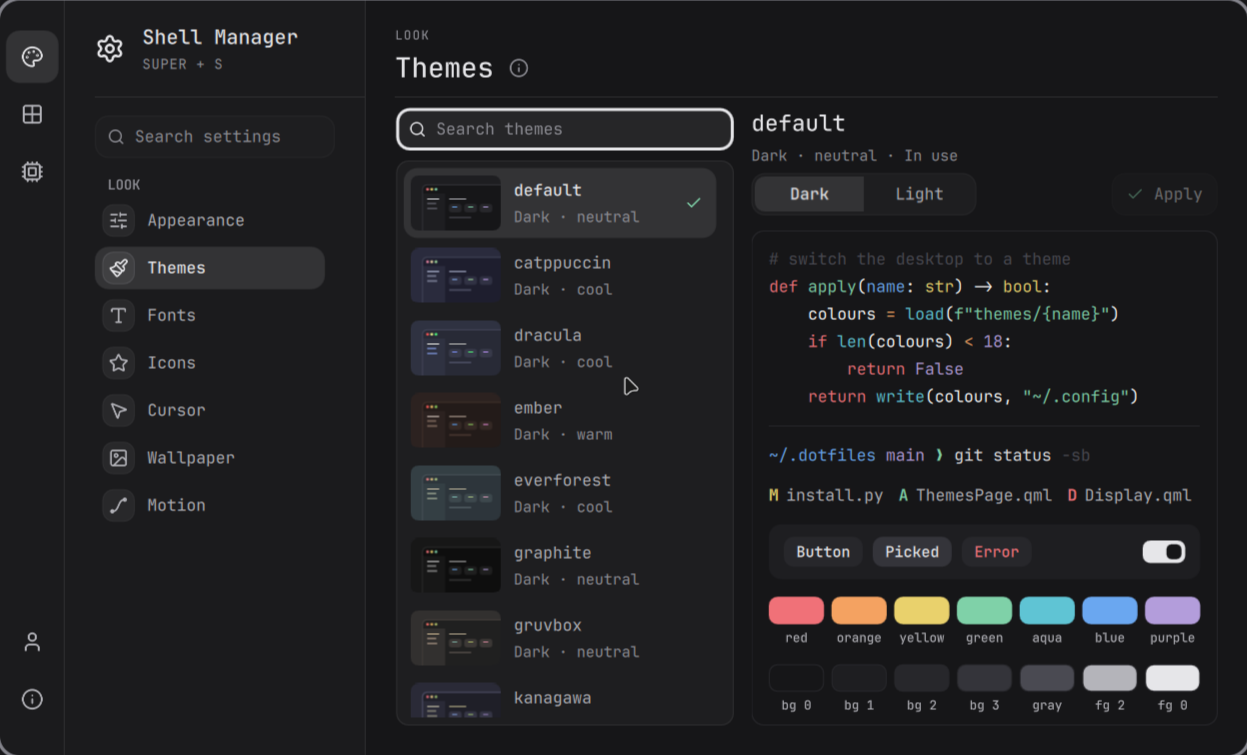
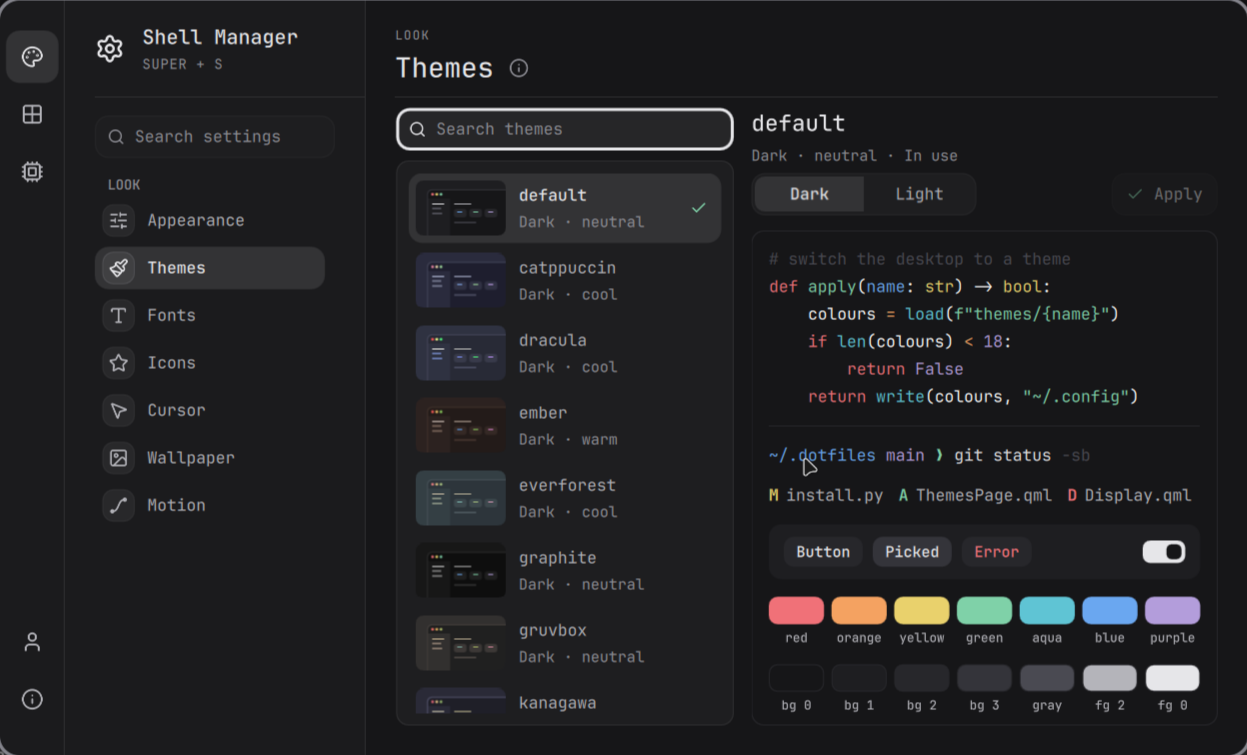
quickshell: align theme list card insets

diff --git a/packages/quickshell/shell/apps/shellmanager/ThemesPage.qml b/packages/quickshell/shell/apps/shellmanager/ThemesPage.qml
@@ -100,7 +100,13 @@ Row {
       ListView {
         id: themeList
       Controls.ScrollBar.vertical: KitScrollBar {}
-        anchors { fill: parent; margins: Theme.gapSmall }
+        anchors {
+          fill: parent
+          leftMargin: Theme.gapSmall
+          rightMargin: Theme.gapSmall
+          topMargin: Theme.gapSmall + Theme.gapMedium / 2
+          bottomMargin: Theme.gapSmall + Theme.gapMedium / 2
+        }
         clip: true
         spacing: Theme.gapTight
         boundsBehavior: Flickable.StopAtBounds
@@ -114,6 +120,7 @@ Row {
           readonly property bool active: modelData === ThemeService.current
 
           width: themeList.width - Theme.gapMedium
+          anchors.horizontalCenter: parent.horizontalCenter
           height: 56
           radius: Theme.radiusControl
           color: picked ? Theme.pickFill : area.containsMouse ? Theme.controlHover : Theme.clear
